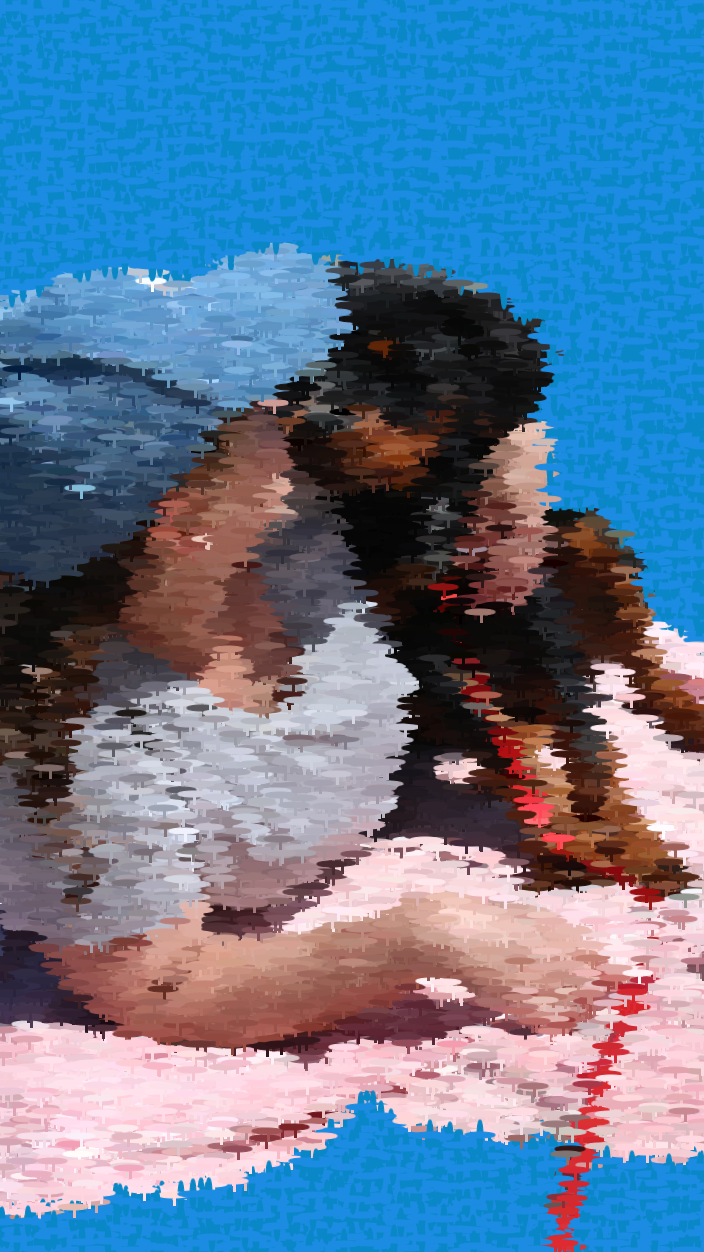
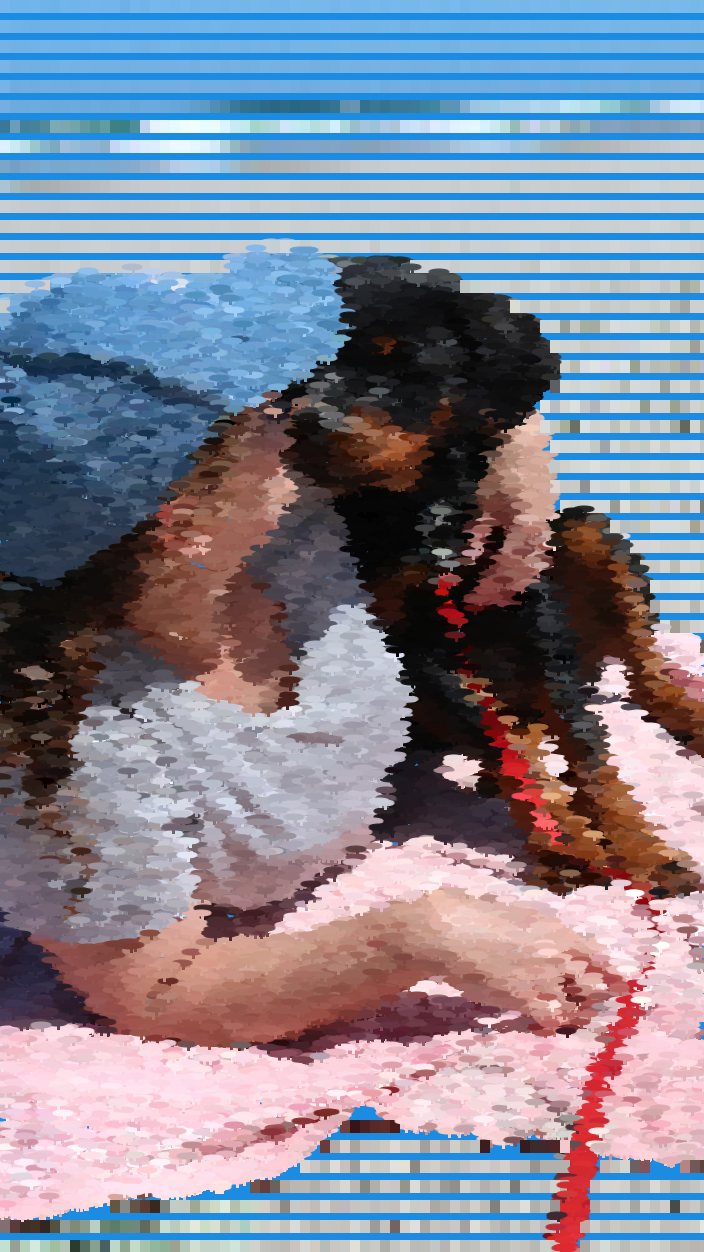
updated image2

diff --git a/sketch.js b/sketch.js
@@ -2,9 +2,9 @@ let sourceImg=null;
 let maskImg=null;
 let renderCounter=0;
 
-let sourceFile = "input_3.jpg";
-let maskFile   = "mask_3.png";
-let outputFile = "artwork_3.png";
+let sourceFile = "input_2.jpg";
+let maskFile   = "mask_2.png";
+let outputFile = "artwork_2.png";
 
 function preload() {
   sourceImg = loadImage(sourceFile);
@@ -16,7 +16,7 @@ function setup () {
   main_canvas.parent('canvasContainer');
   imageMode(CENTER);
   noStroke();
-  background(125, 83, 53);
+  background(28, 140, 226);
   sourceImg.loadPixels();
   maskImg.loadPixels();
 }
@@ -48,23 +48,20 @@ function draw () {
     }
   }
 
-  for(let i=0;i<6000;i++) {
+  for(let i=0;i<5000;i++) {
     let x = floor(random(sourceImg.width));
     let y = floor(random(sourceImg.height));
     let pix = sourceImg.get(x, y);
     let mask = maskImg.get(x, y);
-    let pointSize = 15;
-    let halfSize = 4;
+    let pointSize = 20;
+    let rectSize = 2;
+    let halfSize = 6;
+    let halfrectSize = 6;
     if(mask[0] > 128) {
-      // fill(0);
-      // stroke(pix);   
-      // ellipse(x, y, pointSize, halfSize); 
-      // ellipse(x, y, pointSize/2, halfSize/2); 
-      // ellipse(x, y, pointSize/4, halfSize/4); 
       fill(pix);
       stroke(pix);
-      ellipse(x, y, halfSize, pointSize);
-      ellipse(x, y, pointSize, halfSize);
+      rect(x, y, rectSize, halfrectSize);   
+      ellipse(x, y, pointSize, halfSize); 
     }
     else {
 
@@ -76,7 +73,7 @@ function draw () {
     console.log("Done!")
     noLoop();
     // uncomment this to save the result
-     //saveArtworkImage(outputFile);
+     saveArtworkImage(outputFile);
   }
 }
 
